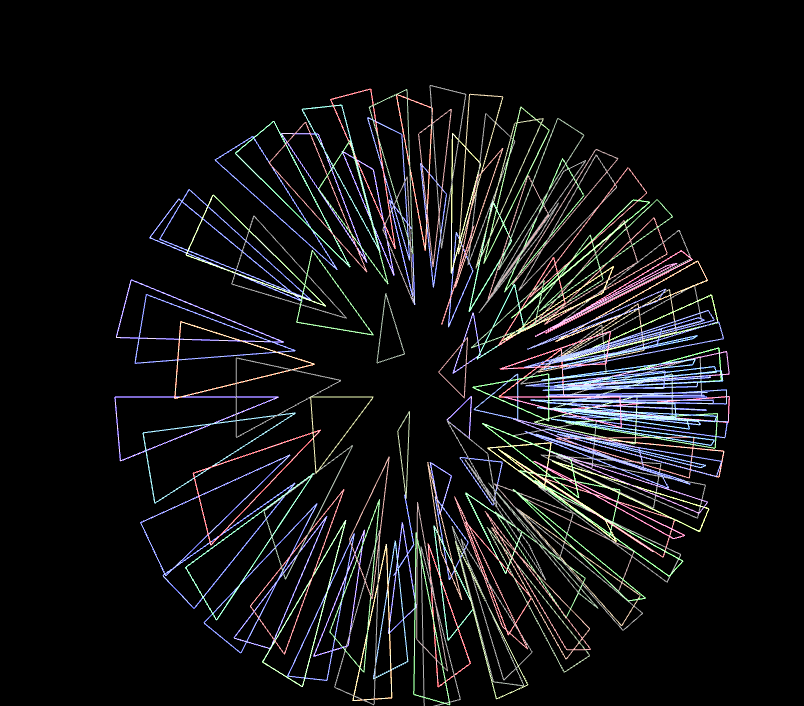
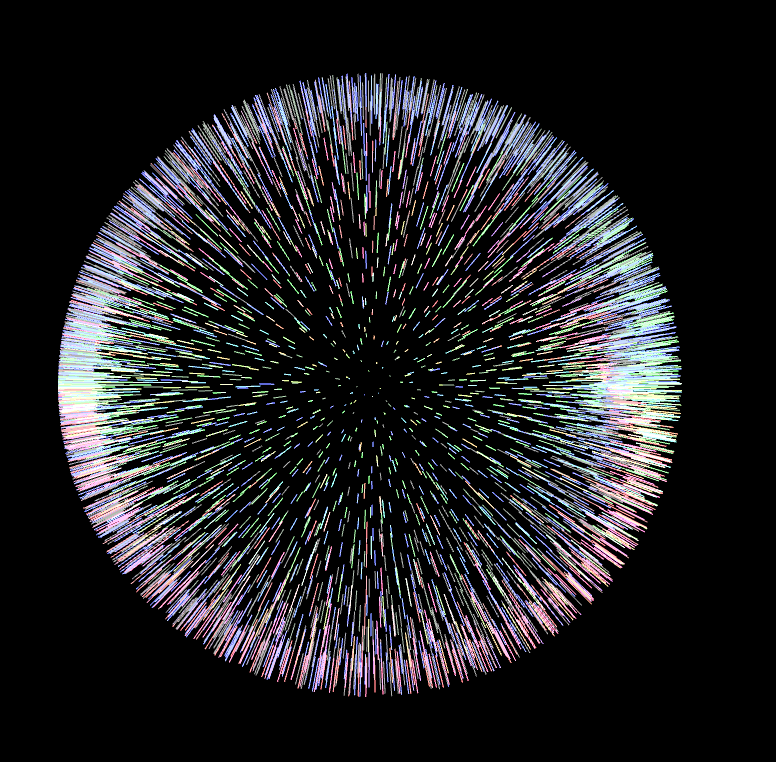
[snapshot]

diff --git a/index.js b/index.js
@@ -6,7 +6,7 @@ const VIDEO_HEIGHT = 600;
 
 import vsh from "./vertex.sh.js";
 import fsh from "./fragment.sh.js";
-import { cPoint, makeCircle } from "./construct";
+import { cPoint, build, build } from "./construct";
 
 // const regl = require('regl')(require('gl')(VIDEO_WIDTH, VIDEO_HEIGHT, {preserveDrawingBuffer: true}))
 // var recorder = createReglRecorder(regl, 150)
@@ -31,7 +31,7 @@ require("getusermedia")({ audio: true }, function(err, stream) {
   context.createMediaStreamSource(stream).connect(analyser);
 
   // Here we preallocate buffers for streaming audio data
-  const fftSize = analyser.frequencyBinCount;
+  const fftSize = analyser.frequencyBinCount*10;
   const frequencies = new Uint8Array(fftSize);
   const fftBuffer = regl.buffer({
     length: fftSize,
@@ -53,7 +53,7 @@ require("getusermedia")({ audio: true }, function(err, stream) {
         buffer: fftBuffer,
         normalized: true
       },
-      position: regl.buffer(makeCircle(fftSize))
+      position: regl.buffer(build(fftSize))
     },
     elements: null,
     instances: -1,
@@ -71,7 +71,7 @@ require("getusermedia")({ audio: true }, function(err, stream) {
   });
 
   regl.frame(({ viewportWidth, viewportHeight }) => {
-    camera({dtheta: 0.01},state => {
+    camera({dtheta: 0.001},state => {
       // Clear draw buffer
       regl.clear({
         color: [0, 0, 0, 1],

diff --git a/construct.js b/construct.js
@@ -37,9 +37,31 @@ function makeCircle(N) {
       ];
     });
 
-//   lines = flatten(lines);
+  //   lines = flatten(lines);
 
   return lines;
 }
+function makePoint(i, N){
+//   var phi = 4 * Math.PI * (i / N);
+  let phi = (i % 360);
+  var rho = (i % (360*360) )/360 ;
 
-export { cPoint, makeCircle };
+  let r = 3;
+  let x = r * Math.sin(phi) * Math.cos(rho);
+  let y = r * Math.sin(phi) * Math.sin(rho);
+  let z = r * Math.cos(phi) * 1.0;
+  let p = [x,y,z];
+  return [p, p.map(v=>v*0.9)];
+}
+
+function build(N) {
+  let lines = Array(N)
+    .fill()
+    .map((_, i) => {
+        return makePoint(i,N);
+    });
+    
+  return lines;
+}
+
+export { cPoint, makeCircle, build };
